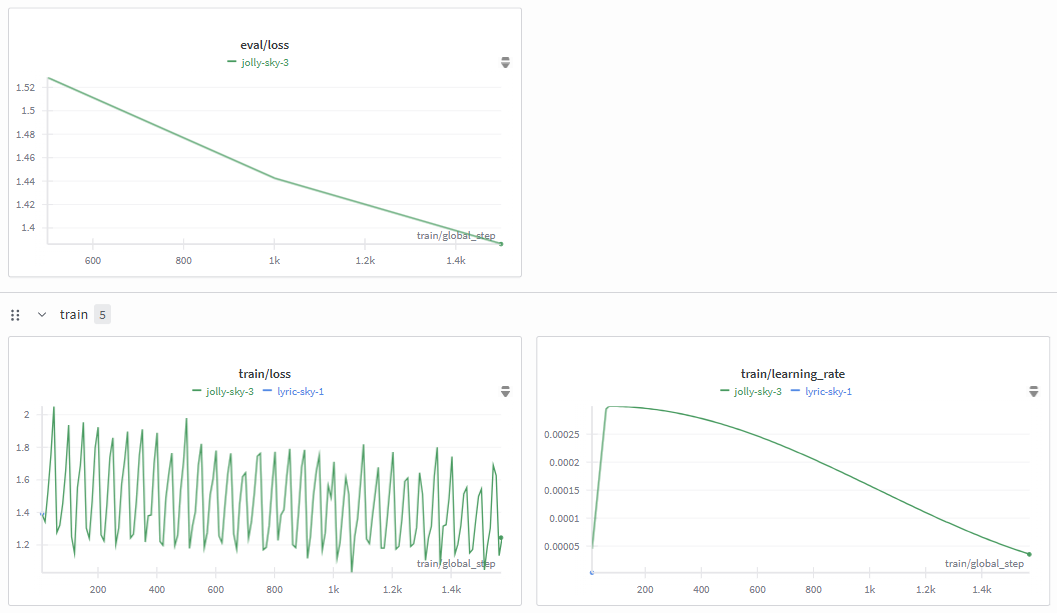
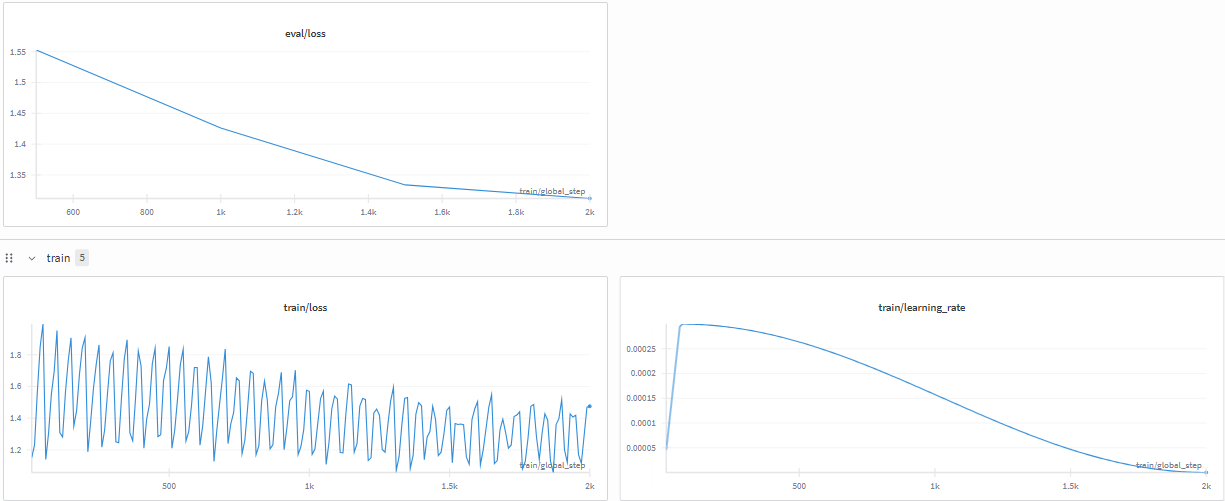
gradio web chat + results

diff --git a/web_chat.py b/web_chat.py
@@ -1,0 +1,147 @@
+import argparse
+import torch
+import gradio as gr
+from transformers import AutoTokenizer, AutoModelForCausalLM, BitsAndBytesConfig
+from peft import PeftModel
+
+
+def load_model_and_tokenizer(base_model_name_or_path: str, adapter_path: str):
+	"""Load base model in 4-bit and merge LoRA adapters for inference."""
+	compute_dtype = (
+		torch.bfloat16
+		if torch.cuda.is_available() and torch.cuda.get_device_capability(0)[0] >= 8
+		else torch.float16
+	)
+	bnb_config = BitsAndBytesConfig(
+		load_in_4bit=True,
+		bnb_4bit_use_double_quant=True,
+		bnb_4bit_quant_type="nf4",
+		bnb_4bit_compute_dtype=compute_dtype,
+	)
+
+	# Prefer tokenizer from adapter folder (it was saved during training)
+	try:
+		tokenizer = AutoTokenizer.from_pretrained(adapter_path)
+	except Exception:
+		tokenizer = AutoTokenizer.from_pretrained(base_model_name_or_path)
+
+	if tokenizer.pad_token is None:
+		tokenizer.pad_token = tokenizer.eos_token
+
+	base_model = AutoModelForCausalLM.from_pretrained(
+		base_model_name_or_path,
+		quantization_config=bnb_config,
+		device_map="auto",
+	)
+
+	model = PeftModel.from_pretrained(base_model, adapter_path)
+	model.eval()
+	return model, tokenizer
+
+
+def build_prompt(history):
+	"""Build prompt matching training: list turns then cue next 'User:'"""
+	parts = []
+	for role, content in history:
+		parts.append(f"{role}: {content.strip()}")
+	parts.append("User:")
+	return "\n".join(parts)
+
+
+@torch.inference_mode()
+def generate_reply(model, tokenizer, history, max_new_tokens=256, temperature=0.7, top_p=0.9):
+	prompt = build_prompt(history)
+	inputs = tokenizer(prompt, return_tensors="pt").to(model.device)
+	output_ids = model.generate(
+		**inputs,
+		max_new_tokens=max_new_tokens,
+		do_sample=True,
+		temperature=temperature,
+		top_p=top_p,
+		no_repeat_ngram_size=4,
+		repetition_penalty=1.15,
+		pad_token_id=tokenizer.eos_token_id,
+		eos_token_id=tokenizer.eos_token_id,
+	)[0]
+
+	full_text = tokenizer.decode(output_ids, skip_special_tokens=True)
+	last_user = full_text.rfind("User:")
+	candidate = full_text[last_user + len("User:") :].strip() if last_user != -1 else full_text
+	for stop_label in ["\nAssistant:", "\nUser:"]:
+		idx = candidate.find(stop_label)
+		if idx != -1:
+			candidate = candidate[:idx].strip()
+	return candidate
+
+
+def gradio_chat(model, tokenizer, system_prompt, max_new_tokens, temperature, top_p, chat_history):
+	# chat_history is a list of [user, bot] turns from Gradio, but we invert roles:
+	# - Human input becomes "Assistant:" content
+	# - Model output becomes "User:" content
+	history = []
+	if system_prompt:
+		history.append(("System", system_prompt))
+	for user_msg, bot_msg in chat_history:
+		if user_msg:
+			history.append(("Assistant", user_msg))
+		if bot_msg:
+			history.append(("User", bot_msg))
+
+	# Append latest user input as Assistant content and generate User reply
+	reply = generate_reply(
+		model,
+		tokenizer,
+		history,
+		max_new_tokens=max_new_tokens,
+		temperature=temperature,
+		top_p=top_p,
+	)
+	return reply
+
+
+def main():
+	parser = argparse.ArgumentParser(description="Gradio web chat for inverted-role QLoRA model")
+	parser.add_argument("--adapter_path", type=str, default="./qlora-adapters/checkpoint-1500")
+	parser.add_argument("--base_model", type=str, default="Qwen/Qwen2.5-7B")
+	parser.add_argument("--system", type=str, default="", help="Optional system instruction")
+	parser.add_argument("--max_new_tokens", type=int, default=256)
+	parser.add_argument("--temperature", type=float, default=0.7)
+	parser.add_argument("--top_p", type=float, default=0.9)
+	parser.add_argument("--server_port", type=int, default=7860)
+	args = parser.parse_args()
+
+	model, tokenizer = load_model_and_tokenizer(args.base_model, args.adapter_path)
+
+	with gr.Blocks() as demo:
+		gr.Markdown("# Inverted-role Chat (Model speaks as 'User')")
+		system = gr.Textbox(label="System prompt (optional)", value=args.system)
+		with gr.Row():
+			max_new = gr.Slider(16, 1024, value=args.max_new_tokens, step=1, label="max_new_tokens")
+			temp = gr.Slider(0.0, 1.5, value=args.temperature, step=0.05, label="temperature")
+			topp = gr.Slider(0.1, 1.0, value=args.top_p, step=0.05, label="top_p")
+		chatbot = gr.Chatbot(height=460)
+		msg = gr.Textbox(label="Your message (you act as Assistant)")
+		send = gr.Button("Send")
+		clear = gr.Button("Clear")
+
+		def on_send(user_message, chat_state, system_val, max_new_val, temp_val, top_p_val):
+			chat_state = chat_state or []
+			chat_state.append([user_message, None])
+			reply = gradio_chat(
+				model, tokenizer, system_val, int(max_new_val), float(temp_val), float(top_p_val), chat_state
+			)
+			chat_state[-1][1] = reply
+			return "", chat_state
+
+		send.click(
+			on_send,
+			inputs=[msg, chatbot, system, max_new, temp, topp],
+			outputs=[msg, chatbot],
+		)
+		clear.click(lambda: None, None, chatbot, queue=False)
+
+		demo.queue().launch(server_name="0.0.0.0", server_port=args.server_port)
+
+
+if __name__ == "__main__":
+	main()

diff --git a/README.md b/README.md
@@ -82,11 +82,17 @@ After fine-tuning, the model will:
 The model learns to act as a human user responding to AI assistant questions, providing realistic human-like responses to various prompts and questions.
 
 ## Results
-Was only able to train for .2 epoch on my computer (~8 hours on a 3060 Ti 8gb). But the train/loss and eval/loss are showing that the model is learning (something).
+I trained it onlyfor ~.2 epoch on my computer (~8 hours on a 3060 Ti 8gb). But the train/loss and eval/loss are showing that the model is learning (something).
 ![train_data](images/train_data.png)
-In the future i will train for a full epoch and see how the model performs.
 
+After training, I tested the model with a few prompts and it worked (surprisingly well, even with no system prompt). I initilized the chat with an empty message and the model responded with a human-like response.
+![inference_chat](images/chat_1.png)
+It was also able to continue the conversation with a human-like response (although it did respond like an AI in third message, in the fourth message it responded like a human again).
+![inference_chat](images/chat_2.png)
+![inference_chat](images/chat_3.png)
+![inference_chat](images/chat_4.png)
 
+So, even with a small amount of training data, you can see that the model is able to generate human-like responses to AI assistant questions. I'm sure that if I trained it for a full epoch (or more), it would be able to generate even better conversations.
 
 
 
